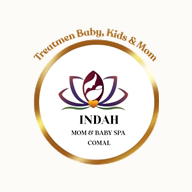
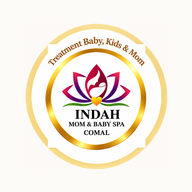
add navbar mobile

Changed region(s): [[0.125, 0.125, 0.875, 0.9062]]

diff --git a/src/components/Admin/AdminDashboard.tsx b/src/components/Admin/AdminDashboard.tsx
@@ -163,8 +163,8 @@ export const AdminDashboard: React.FC<AdminDashboardProps> = ({
                 <Menu className="w-6 h-6" />
               </button>
 
-              <div className="w-10 h-10 rounded-full bg-cream p-1 border border-accent/40 flex items-center justify-center shrink-0">
-                <img src="/logo.png" alt="Logo" className="w-full h-full object-contain" />
+              <div className="w-10 h-10 rounded-full overflow-hidden bg-cream p-0.5 border border-accent/40 flex items-center justify-center shrink-0">
+                <img src="/logo.png" alt="Logo" className="w-full h-full rounded-full object-cover" />
               </div>
               <div>
                 <div className="flex items-center gap-2">
@@ -459,8 +459,8 @@ export const AdminDashboard: React.FC<AdminDashboardProps> = ({
             {/* Header Drawer */}
             <div className="p-4 bg-gradient-to-b from-primary/5 via-cream to-white border-b border-purple-100 flex items-center justify-between">
               <div className="flex items-center gap-2.5 min-w-0">
-                <div className="w-10 h-10 rounded-full bg-white p-0.5 shadow-sm border border-accent/40 shrink-0 flex items-center justify-center">
-                  <img src="/logo.png" alt="Logo" className="w-full h-full object-contain" />
+                <div className="w-10 h-10 rounded-full overflow-hidden bg-white p-0.5 shadow-sm border border-accent/40 shrink-0 flex items-center justify-center">
+                  <img src="/logo.png" alt="Logo" className="w-full h-full rounded-full object-cover" />
                 </div>
                 <div className="min-w-0 flex-1">
                   <div className="flex items-center gap-1.5">

diff --git a/src/components/Navbar.tsx b/src/components/Navbar.tsx
@@ -194,7 +194,7 @@ export const Navbar: React.FC<NavbarProps> = ({
                   <img
                     src="/logo.png"
                     alt="Logo Indah Mom & Baby Spa Comal"
-                    className="w-full h-full object-contain"
+                    className="w-full h-full rounded-full object-cover"
                   />
                 </div>
                 <div className="min-w-0 flex-1">
@@ -304,11 +304,11 @@ export const Navbar: React.FC<NavbarProps> = ({
             {/* 1. Header Drawer */}
             <div className="p-4 bg-gradient-to-b from-primary/5 via-cream to-white border-b border-purple-100 flex items-center justify-between">
               <div className="flex items-center gap-2.5 min-w-0">
-                <div className="w-10 h-10 rounded-full bg-white p-0.5 shadow-sm border border-accent/40 shrink-0 flex items-center justify-center">
+                <div className="w-10 h-10 rounded-full overflow-hidden bg-white p-0.5 shadow-sm border border-accent/40 shrink-0 flex items-center justify-center">
                   <img
                     src="/logo.png"
                     alt="Logo"
-                    className="w-full h-full object-contain"
+                    className="w-full h-full rounded-full object-cover"
                   />
                 </div>
                 <div className="min-w-0 flex-1">

diff --git a/src/components/Hero.tsx b/src/components/Hero.tsx
@@ -159,11 +159,11 @@ export const Hero: React.FC<HeroProps> = ({ onBookClick, whatsappNumber = '62878
                 {/* Brand Showcase Area */}
                 <div className="relative rounded-2xl bg-gradient-to-br from-[#F5E8FB] to-[#FDFBF7] p-3.5 sm:p-4 text-center border border-primary/10">
                   <div className="flex items-center justify-center gap-3">
-                    <div className="w-12 h-12 rounded-full bg-white shadow-sm p-1 border-2 border-accent/40 flex items-center justify-center shrink-0">
+                    <div className="w-12 h-12 rounded-full overflow-hidden bg-white shadow-sm p-0.5 border-2 border-accent/40 flex items-center justify-center shrink-0">
                       <img
                         src="/logo.png"
                         alt="Logo Indah Mom & Baby Spa"
-                        className="w-full h-full object-contain"
+                        className="w-full h-full rounded-full object-cover"
                       />
                     </div>
                     <div className="text-left">

diff --git a/src/components/LocationSection.tsx b/src/components/LocationSection.tsx
@@ -130,8 +130,8 @@ export const LocationSection: React.FC<LocationSectionProps> = ({
                   {/* Floating Overlay Card on Map */}
                   <div className="absolute bottom-4 left-4 right-4 bg-white/95 backdrop-blur-md p-3.5 rounded-2xl shadow-lg border border-primary/15 flex items-center justify-between gap-3">
                     <div className="flex items-center gap-2.5">
-                      <div className="w-8 h-8 rounded-full bg-primary/10 flex items-center justify-center">
-                        <img src="/logo.png" alt="Logo" className="w-6 h-6 object-contain" />
+                      <div className="w-8 h-8 rounded-full overflow-hidden bg-primary/10 flex items-center justify-center shrink-0">
+                        <img src="/logo.png" alt="Logo" className="w-full h-full rounded-full object-cover" />
                       </div>
                       <div>
                         <h5 className="font-bold text-xs text-primary leading-none">

diff --git a/src/components/Admin/AdminLogin.tsx b/src/components/Admin/AdminLogin.tsx
@@ -232,8 +232,8 @@ export const AdminLogin: React.FC<AdminLoginProps> = ({ mode, onSuccess, onBackT
       >
         {/* Logo and Title */}
         <div className="text-center mb-6">
-          <div className="w-16 h-16 rounded-full bg-cream mx-auto p-1 border-2 border-accent/40 shadow-md flex items-center justify-center mb-3">
-            <img src="/logo.png" alt="Logo Indah Mom & Baby Spa" className="w-full h-full object-contain" />
+          <div className="w-16 h-16 rounded-full overflow-hidden bg-cream mx-auto p-0.5 border-2 border-accent/40 shadow-md flex items-center justify-center mb-3">
+            <img src="/logo.png" alt="Logo Indah Mom & Baby Spa" className="w-full h-full rounded-full object-cover" />
           </div>
           <span className="text-[11px] font-bold text-accent uppercase tracking-widest bg-accent/15 px-3 py-1 rounded-full">
             Area Khusus Bidan

diff --git a/src/components/Footer.tsx b/src/components/Footer.tsx
@@ -42,11 +42,11 @@ export const Footer: React.FC<FooterProps> = ({
           {/* Brand Info */}
           <div className="lg:col-span-4 space-y-4">
             <div className="flex items-center gap-3">
-              <div className="w-12 h-12 rounded-full overflow-hidden bg-white p-1 shadow-md border-2 border-accent/50 flex items-center justify-center">
+              <div className="w-12 h-12 rounded-full overflow-hidden bg-white p-0.5 shadow-md border-2 border-accent/50 flex items-center justify-center">
                 <img
                   src="/logo.png"
                   alt="Logo Indah Mom Baby Spa Comal"
-                  className="w-full h-full object-contain"
+                  className="w-full h-full rounded-full object-cover"
                 />
               </div>
               <div>

diff --git a/src/components/AboutSection.tsx b/src/components/AboutSection.tsx
@@ -42,7 +42,7 @@ export const AboutSection: React.FC = () => {
                   <img
                     src="/logo.png"
                     alt="Profil Bidan Indah Mom Baby Spa"
-                    className="w-full h-full object-contain bg-white rounded-full p-2"
+                    className="w-full h-full rounded-full object-cover bg-white"
                   />
                 </div>
 

diff --git a/public/sw.js b/public/sw.js
@@ -2,7 +2,7 @@
 // Menggunakan strategi Network-First agar data reservasi & Supabase selalu segar,
 // namun tetap memenuhi standar PWA Chrome Android & iOS Fullscreen.
 
-const CACHE_NAME = 'indah-spa-pwa-v2';
+const CACHE_NAME = 'indah-spa-pwa-v3';
 const PRECACHE_URLS = [
   '/',
   '/index.html',
